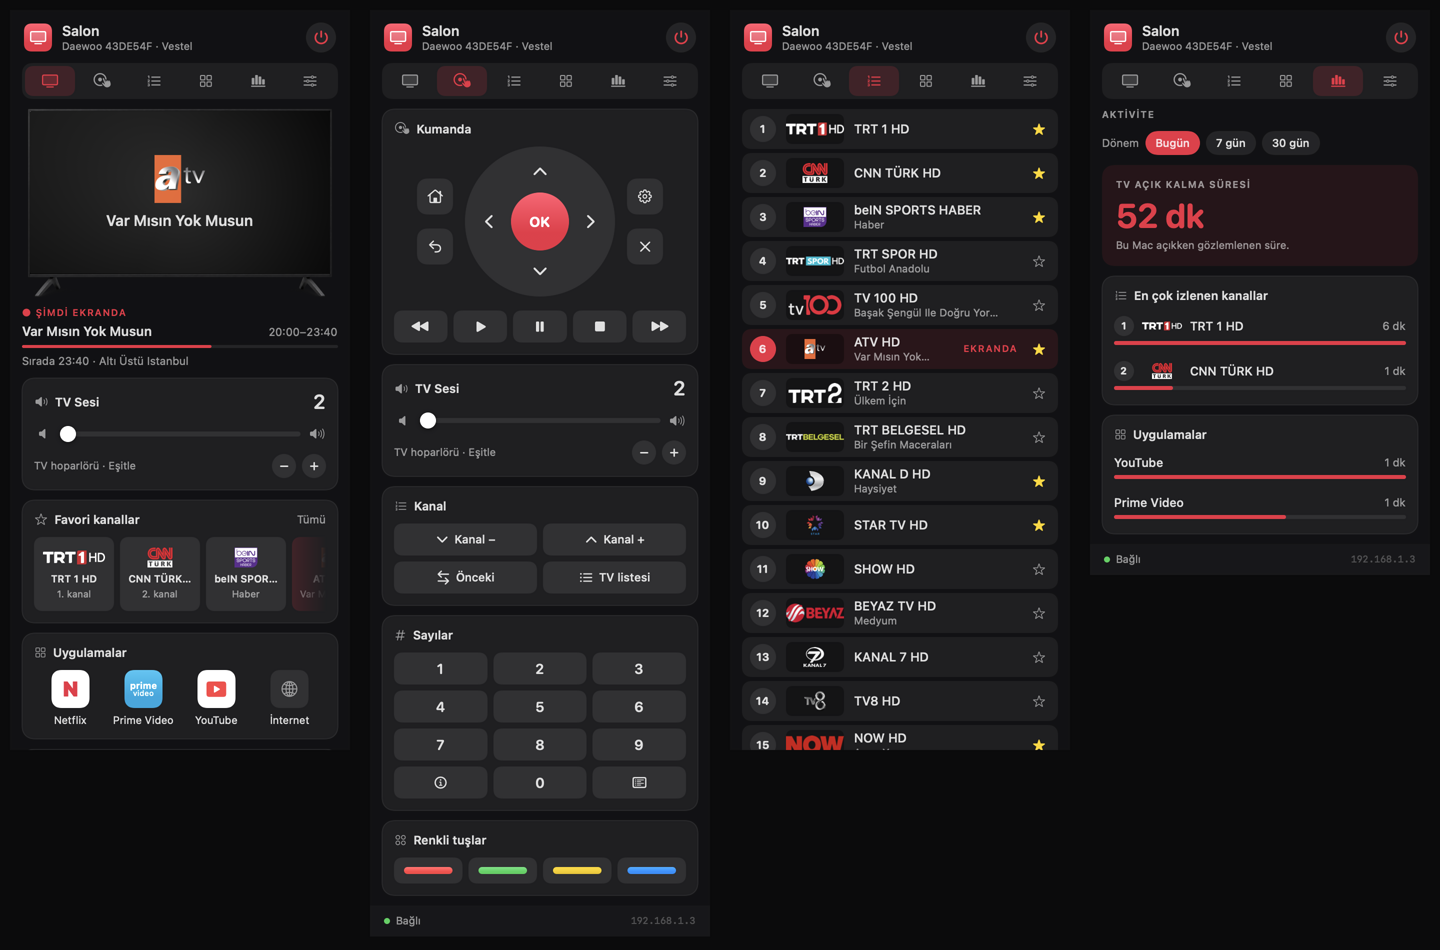
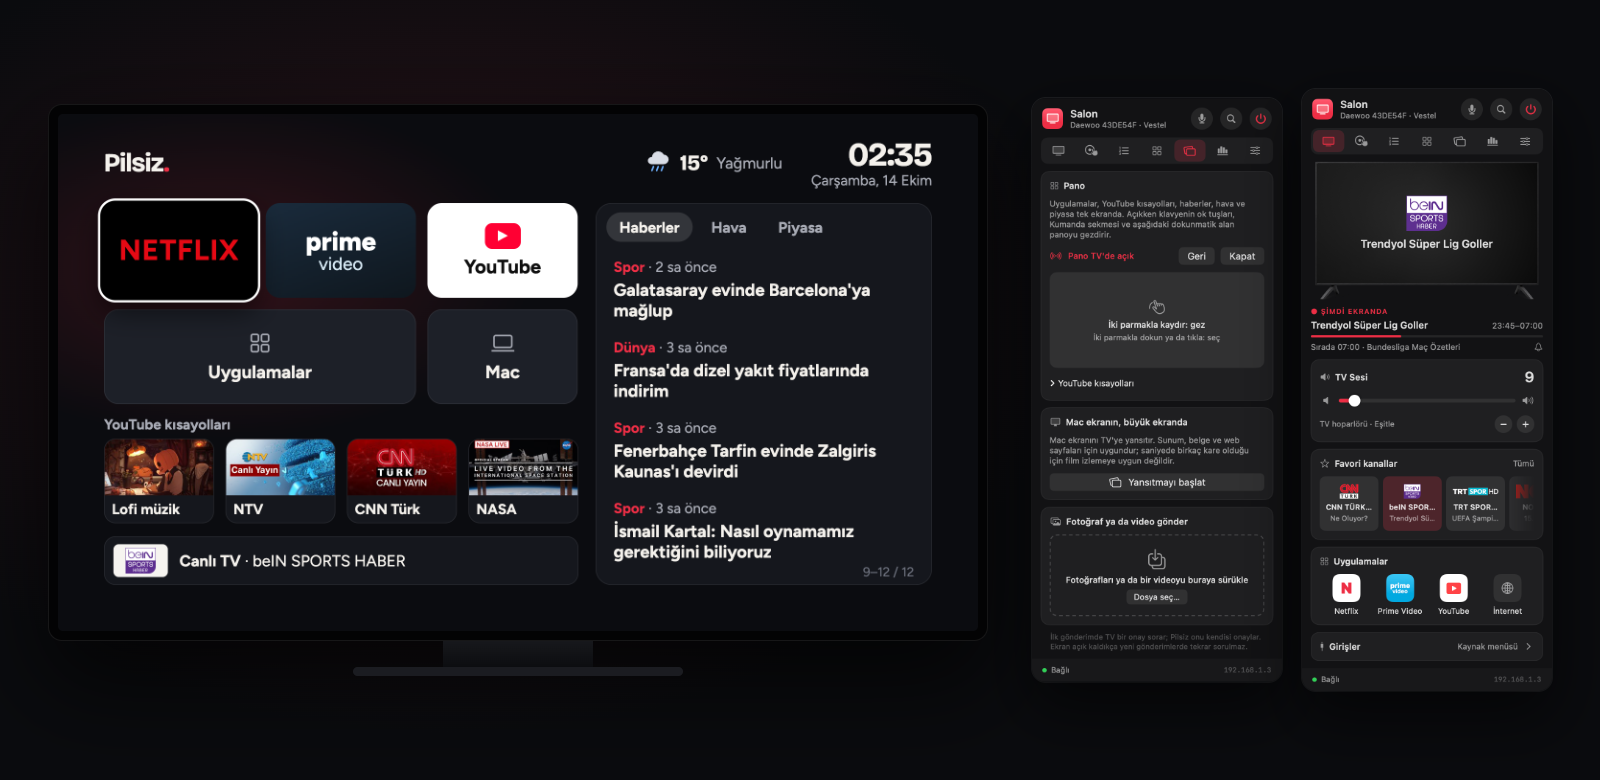
README ve ekran görüntüleri: pano, yeni kumanda ve açık kaynak hazırlığı
- README: pano bölümü ve görselleri, gizlilik, katkı ve lisans bölümleri; eskimiş
  yansıtma ayrıntıları güncellendi (MJPEG, ~15 kare/sn).
- Ekran görüntüleri baştan üretildi; kapakta TV'de pano ve panel yan yana.
- MIT lisansı ve pano fontlarının OFL metinleri eklendi.
- Koddaki gerçek MAC adresi örnek bir adresle değiştirildi.
- Anlık görüntü modu gerçek bir pencere çizer (yazı alanları artık görünür) ve
  TV kapalıyken de "bağlı" durumu gösterir.

diff --git a/Sources/Pilsiz/Snapshot.swift b/Sources/Pilsiz/Snapshot.swift
@@ -138,12 +138,29 @@ enum Snapshot {
             try? await Task.sleep(for: .seconds(1))
             for tab in Tab.allCases {
                 UserDefaults.standard.set(tab.rawValue, forKey: "tab")
-                let renderer = ImageRenderer(content: RootView().environment(tv).environment(PanelState()))
-                renderer.scale = 2
-                if let tiff = renderer.nsImage?.tiffRepresentation,
-                   let png = NSBitmapImageRep(data: tiff)?.representation(using: .png, properties: [:]) {
-                    try? png.write(to: URL(fileURLWithPath: dir).appendingPathComponent("\(tab.rawValue).png"))
+                // TV kapalıyken de dolu bir panel çizilsin; "TV'de göster" sekmesi panoyu açık hâliyle göstersin.
+                tv.debugForceOnline()
+                if tab == .share { tv.dashboard.debugMarkOpen(tv: tv) }
+                // ImageRenderer yazı alanlarını ve AppKit görünümlerini çizemediği için gerçek bir pencere kullanılır;
+                // pencere masaüstünün arkasında durur, ekranda görünmez.
+                let host = NSHostingView(rootView: RootView().environment(tv).environment(PanelState()))
+                let window = NSWindow(contentRect: NSRect(origin: .zero, size: host.fittingSize), styleMask: .borderless,
+                                      backing: .buffered, defer: false)
+                window.level = NSWindow.Level(rawValue: Int(CGWindowLevelForKey(.desktopWindow)) - 1)
+                window.appearance = NSAppearance(named: .darkAqua)
+                window.contentView = host
+                window.orderFrontRegardless()
+                try? await Task.sleep(for: .milliseconds(700))
+                tv.debugForceOnline()
+                window.setContentSize(host.fittingSize)
+                host.layoutSubtreeIfNeeded()
+                try? await Task.sleep(for: .milliseconds(300))
+                if let bitmap = host.bitmapImageRepForCachingDisplay(in: host.bounds) {
+                    host.cacheDisplay(in: host.bounds, to: bitmap)
+                    try? bitmap.representation(using: .png, properties: [:])?
+                        .write(to: URL(fileURLWithPath: dir).appendingPathComponent("\(tab.rawValue).png"))
                 }
+                window.orderOut(nil)
             }
             exit(0)
         }

diff --git a/Sources/Pilsiz/TVController.swift b/Sources/Pilsiz/TVController.swift
@@ -105,6 +105,16 @@ final class TVController {
         Task { await startPolling() }
     }
 
+    #if DEBUG
+    /// Anlık görüntü modunda TV kapalıyken de "bağlı" görünümü çizmek için; durum yoklaması bunu geri almaz.
+    private var debugPinnedOnline = false
+    func debugForceOnline() {
+        debugPinnedOnline = true
+        status = .online
+        lastError = nil
+    }
+    #endif
+
     // MARK: - Komutlar
 
     func press(_ key: RemoteKey) {
@@ -355,6 +365,9 @@ final class TVController {
     // MARK: - Durum ve keşif
 
     func refresh() async {
+        #if DEBUG
+        if debugPinnedOnline { return }
+        #endif
         guard status != .waking, status != .searching else { return }
         if host.isEmpty {
             // Otomatik tarama yalnızca bir kez; sonrası için Ayarlar › “Ağda ara”.

diff --git a/Sources/Pilsiz/Dashboard.swift b/Sources/Pilsiz/Dashboard.swift
@@ -58,6 +58,14 @@ final class Dashboard {
         status == .open && share.server.currentMode == .dashboard
     }
 
+    #if DEBUG
+    /// Anlık görüntü modunda pano kartını açık hâliyle çizmek için; TV'ye bir şey gönderilmez.
+    func debugMarkOpen(tv: TVController) {
+        status = .open
+        tv.share.server.setMode(.dashboard)
+    }
+    #endif
+
     // MARK: - Açma, kapama
 
     func open(tv: TVController) {
